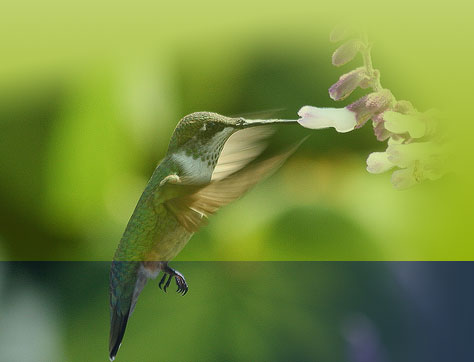
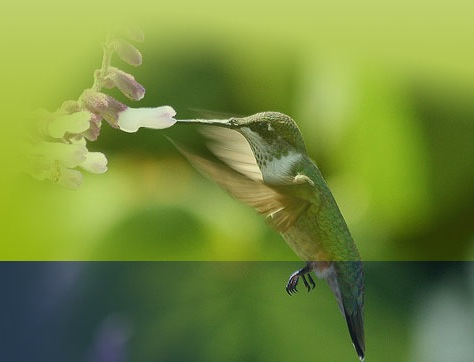
Deplacement du colibri vers la droite

diff --git a/public/stylesheets/base.css b/public/stylesheets/base.css
@@ -54,7 +54,7 @@ div#colibri {
 	background-color: transparent;
 	bottom: -5px;
 	display: inline-block;
-	left: 0;
+	left: 475px;
 }
 
 ul.menubar {
@@ -92,11 +92,11 @@ ul.menubar li>a:hover {
 
 div.pubs {
 	height: 424px;
-	width: 150px;
-	background: url(../images/bckg-rightcol_05.jpg) no-repeat 0 top;
+	background: transparent url(../images/bckg-rightcol_05.png) no-repeat 0 top;
 	text-align: center;
 	padding-top: 20px;
 	margin-top: 20px;
+	width: 150px;
 }
 
 div#newsletter-form {
